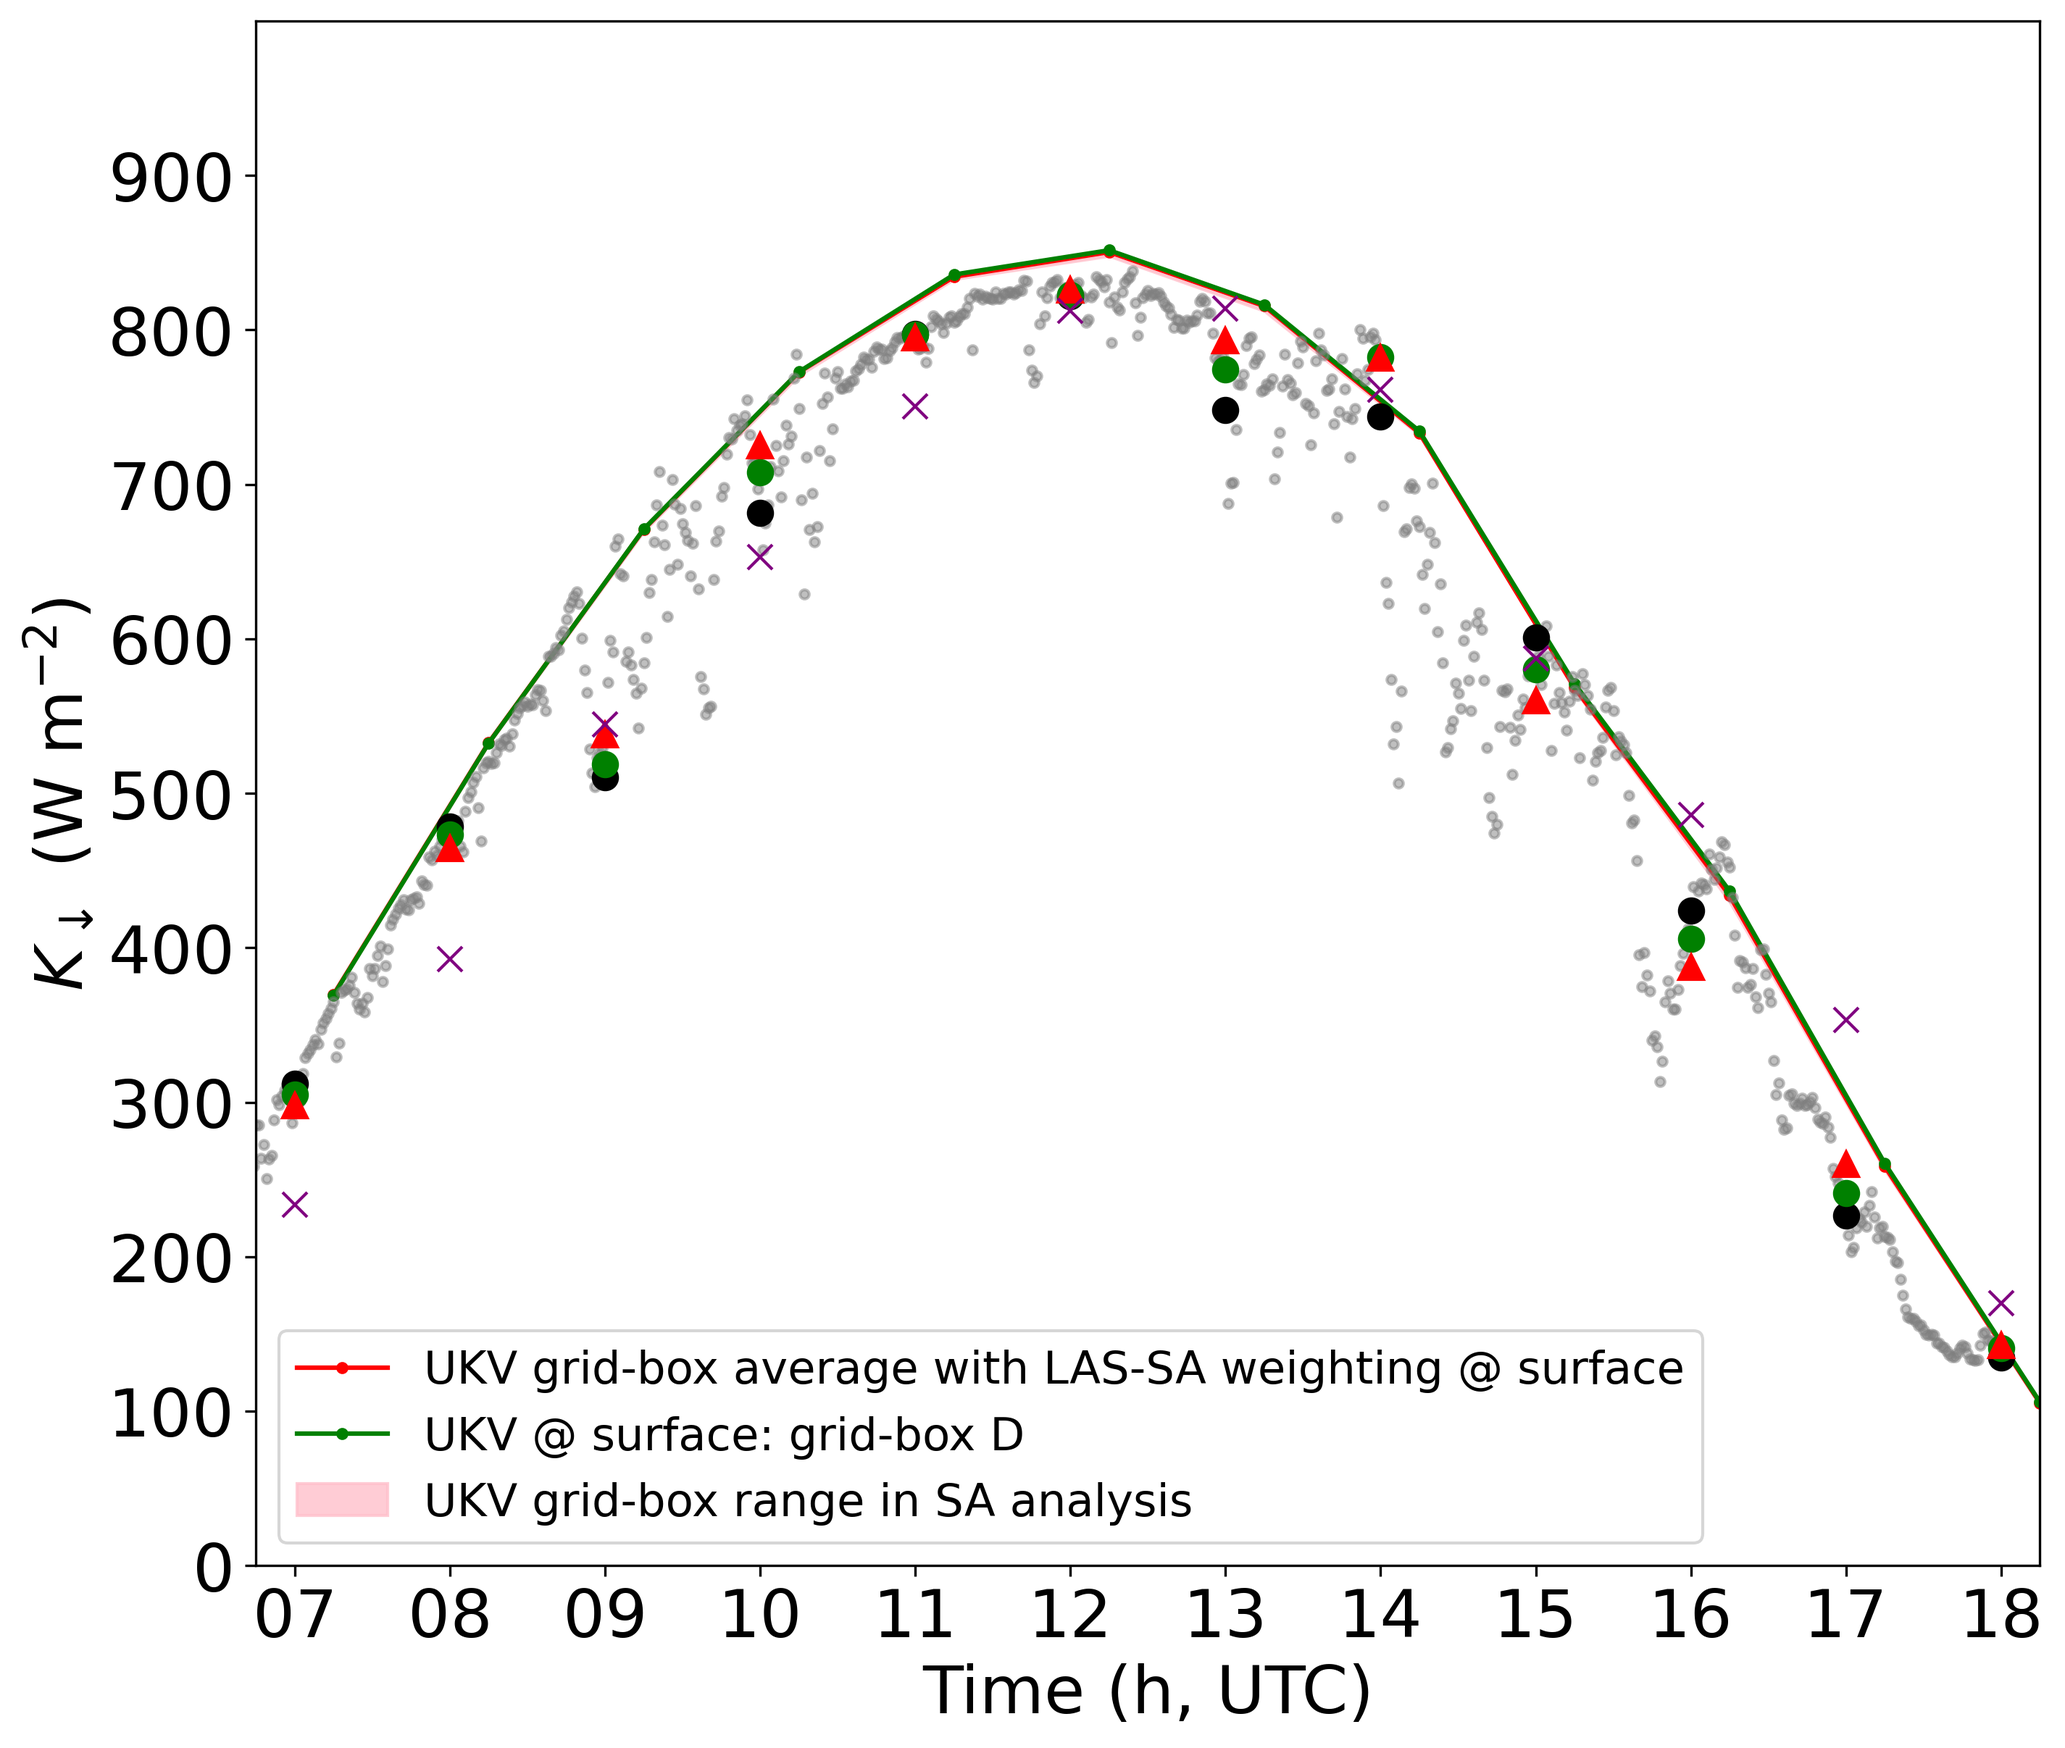
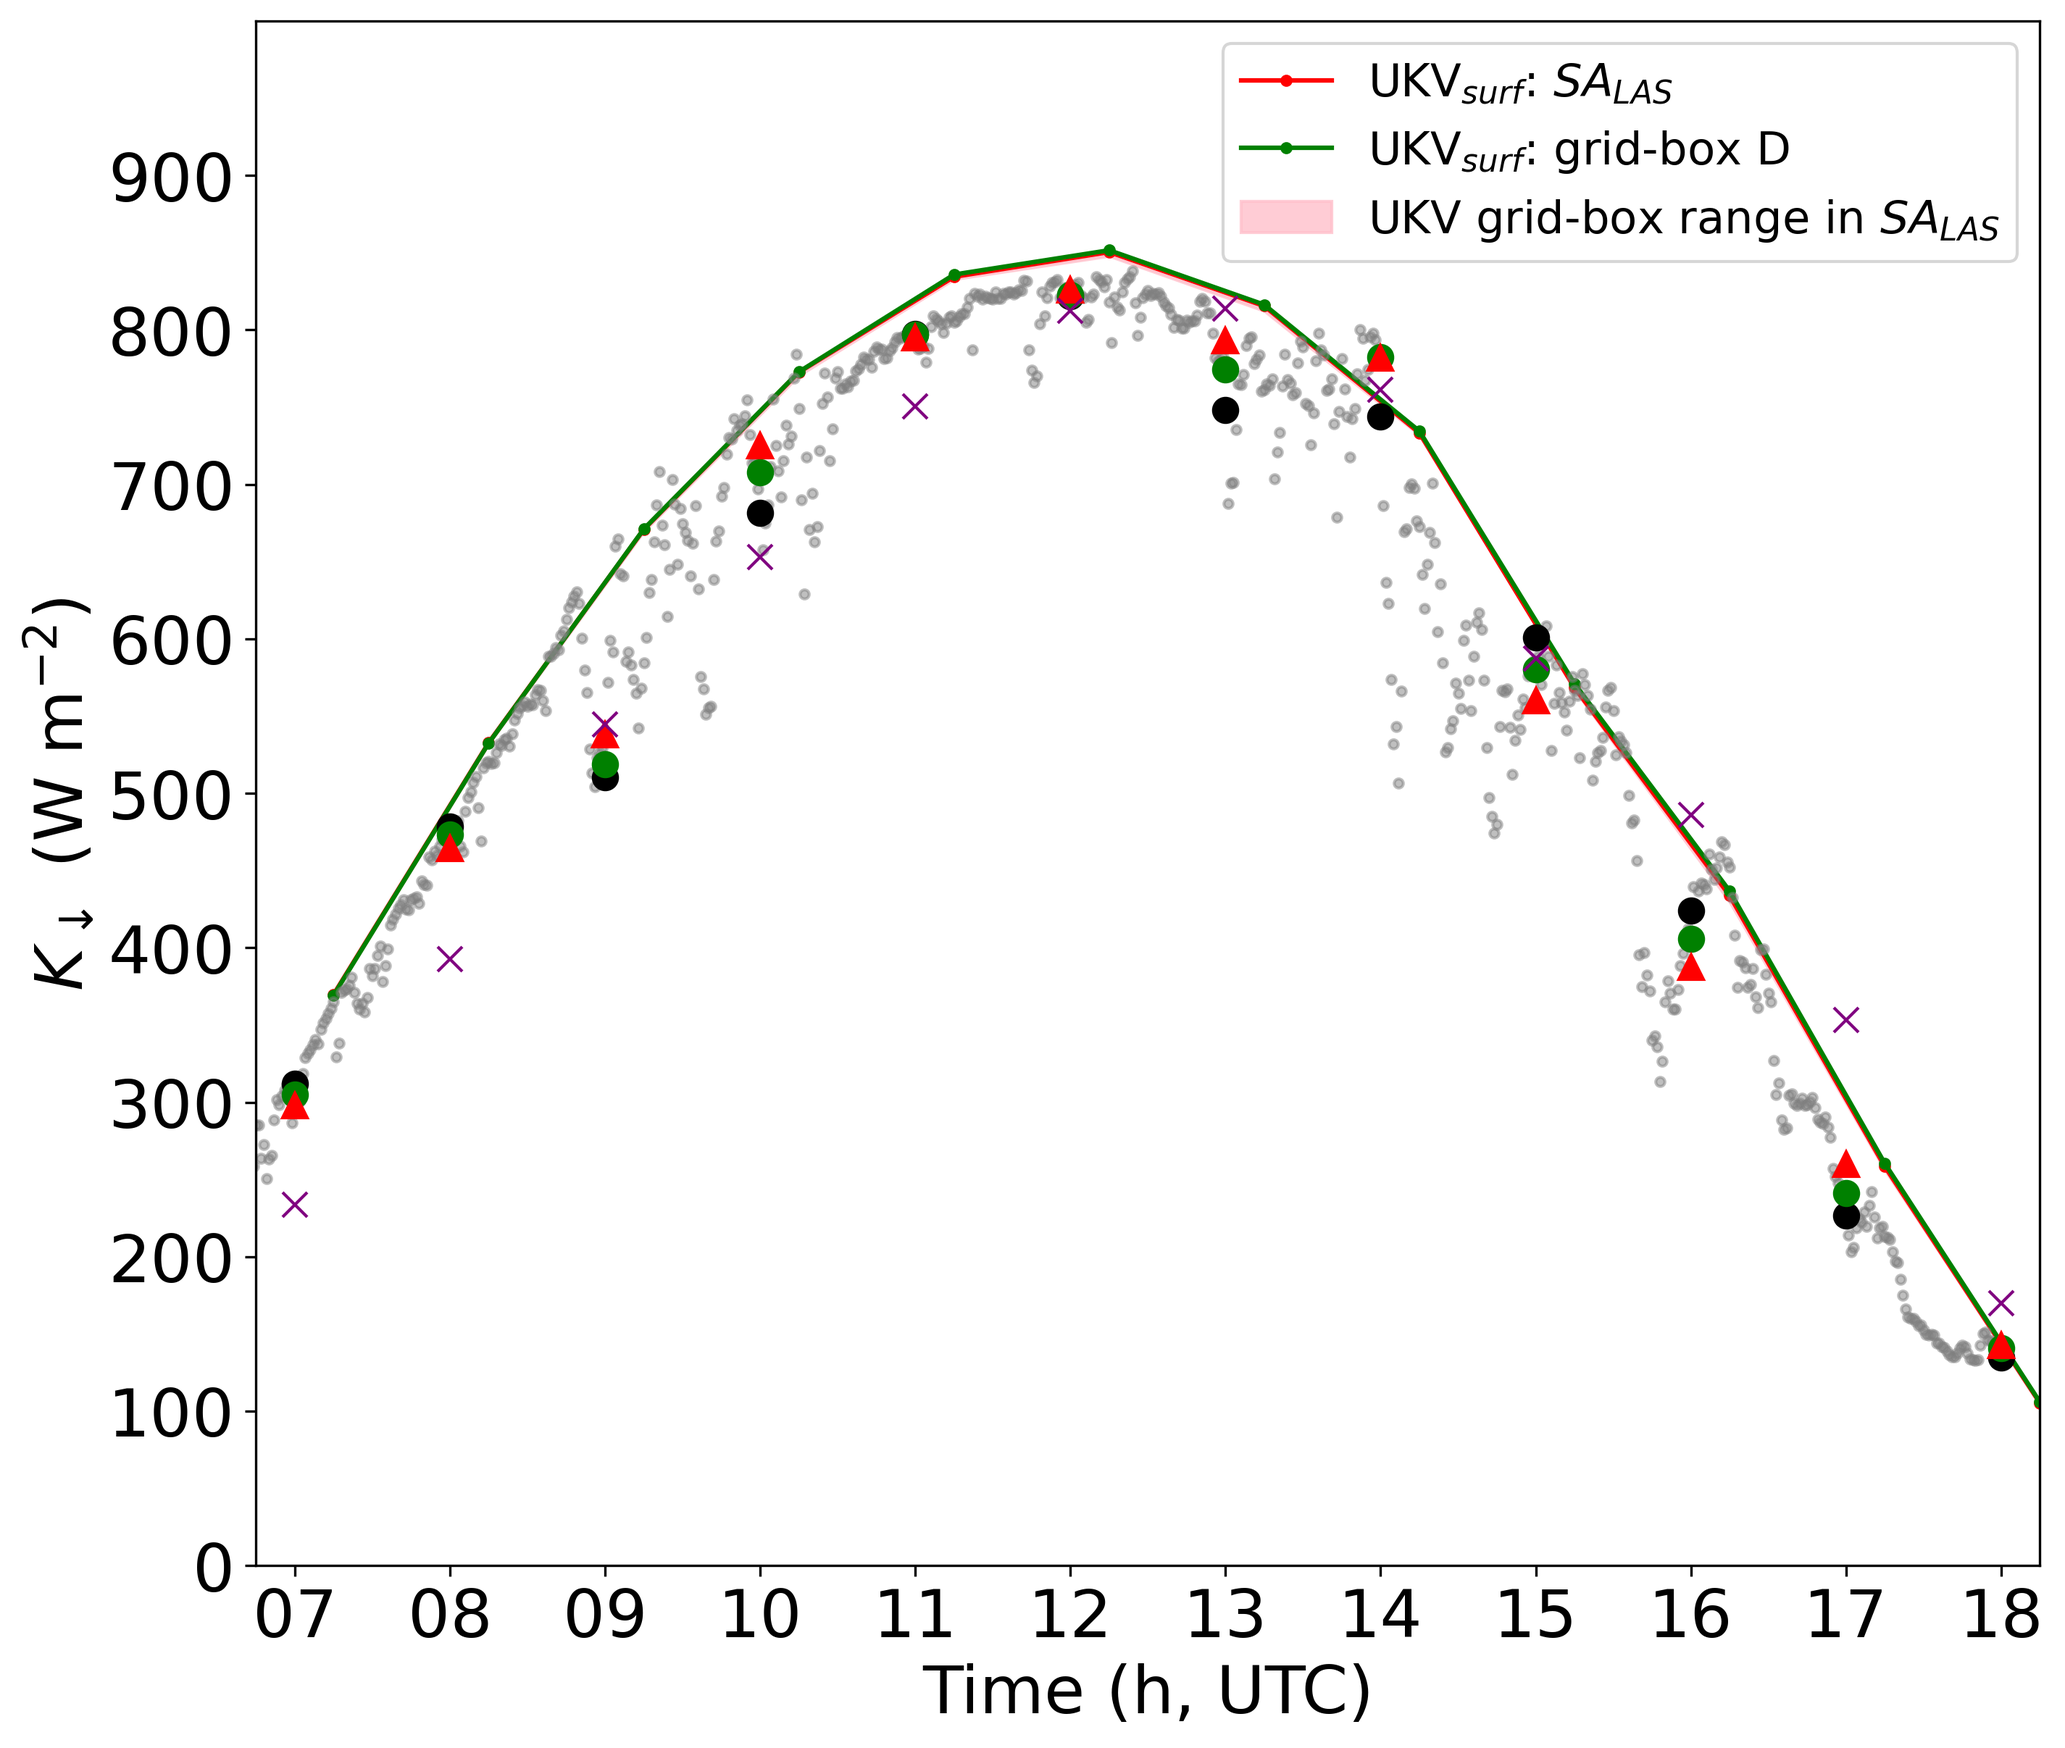
Change legend

Changed region(s): [[0.1249, 0.746, 0.8119, 0.8703], [0.5933, 0.0311, 0.9681, 0.1554]]

diff --git a/scint_plots/detailed_time_series/detailed_time_series_funs.py b/scint_plots/detailed_time_series/detailed_time_series_funs.py
@@ -157,9 +157,12 @@ def detailed_time_series(obs_df,
 
     max_grid_vals, min_grid_vals, n_grids = variation_in_grids(ukv_df, model_site_dict)
 
-    ax1.fill_between(ukv_df.index, max_grid_vals, min_grid_vals, color='pink', alpha=0.8, label='UKV grid-box range in SA analysis')
+    # ax1.fill_between(ukv_df.index, max_grid_vals, min_grid_vals, color='pink', alpha=0.8, label='UKV grid-box range in SA analysis')
+    ax1.fill_between(ukv_df.index, max_grid_vals, min_grid_vals, color='pink', alpha=0.8, label='UKV grid-box range in $SA_{LAS}$')
 
-    ax1.plot(ukv_df.index, ukv_df['WAverage'], label='UKV grid-box average with LAS-SA weighting @ surface', color='red', marker='.')
+    # ax1.plot(ukv_df.index, ukv_df['WAverage'], label='UKV grid-box average with LAS-SA weighting @ surface', color='red', marker='.')
+
+    ax1.plot(ukv_df.index, ukv_df['WAverage'], label='UKV$_{surf}$: $SA_{LAS}$', color='red', marker='.')
 
     if variable == 'kdown':
         grid_box_letter = 'D'  # where KSSW is
@@ -168,11 +171,15 @@ def detailed_time_series(obs_df,
 
 
 
-    ax1.plot(ukv_df.index, ukv_df[13], label='UKV @ surface: grid-box ' + grid_box_letter, color='green', marker='.')
+    # ax1.plot(ukv_df.index, ukv_df[13], label='UKV @ surface: grid-box ' + grid_box_letter, color='green', marker='.')
+    ax1.plot(ukv_df.index, ukv_df[13], label='UKV$_{surf}$: grid-box ' + grid_box_letter, color='green', marker='.')
 
     # if I am including the BL_H grid
     try:
-        ukv_level = ax1.plot(ukv_df.index, ukv_df['BL_H'], label='UKV @ ' + str(int(BL_H_z)) + ' m agl: grid-box ' + grid_box_letter, color='blue', marker='.')
+        # ukv_level = ax1.plot(ukv_df.index, ukv_df['BL_H'], label='UKV @ ' + str(int(BL_H_z)) + ' m agl: grid-box ' + grid_box_letter, color='blue', marker='.')
+
+        ukv_level = ax1.plot(ukv_df.index, ukv_df['BL_H'], label='UKV$_{level}$ @ ' + str(int(BL_H_z)) + ' m agl: grid-box ' + grid_box_letter, color='blue', marker='.')
+
     except KeyError:
         pass
 
